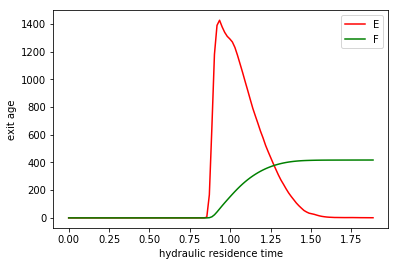
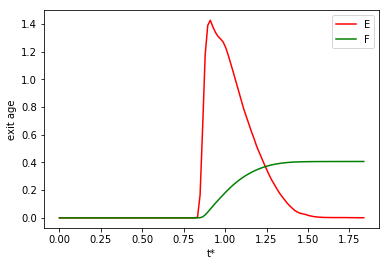
relabeled e and f graphs

diff --git a/Lab5-Reactor Characteristics/group1_lab5_report.md b/Lab5-Reactor Characteristics/group1_lab5_report.md
@@ -3,15 +3,29 @@
 ##### Due March 27
 
 ## Introduction and Objectives
+
+In the world of environmental engineering, reactors are ubiquitous. Everything from bodies of water, such as lakes, in nature, to settling tanks in treatment plants are "reactors" that allow chemical, biological, and physical processes to take place. One factor that engineers consider when working with reactors is the mixing level and the residence time. For instance, chlorine contactor tanks in water treatment are built to maximize the residence time of water in the tank to optimize the contact time between chlorine and pathogens. This experiment allows us to use tracer studies, with #40 Red Dye, to obtain estimates of the effective contact time by analyzing different reactor designs. Through this lab, we hope to modify the reactor to obtain a maximum value of t⋆ at F = 0.1, document our progress toward this goal by obtaining appropriate experimental data, and compare our experimental data with appropriate models.
+
+Below are relevant equations:
+
+$$E_{\left(t\right)}=\frac{C_t{\rlap{-} V }_r}{C_{tr}{\rlap{-} V }_{tr}}=e^{\left(-t/\theta \right)}$$
+
+This equation allowed us to solve for E, the exit age distribution, by multiplying the concentration data by the volume of the reactor divided by the pulse input of the tracer.
+
+$$F_{\left(t^{\star} \right)} =\int _{0}^{t^{\star} }E_{\left(t^{\star} \right)} dt^{\star}$$
+
+This equation gave us the F curve.
+
+
 ## Procedures
+
+In the Reactor Characteristics lab, we performed multiple tests with different reactors to measure the reactor volume, residual reactor red dye concentration, and the flow rate. We set up the reactor system to pump distilled water from a 20 L Jerry can to the influent of the reactor, which is placed on a stir plate, and drained out with a straight short tube. Then, we proceeded to add a volume of red dye #40 stock that will give a maximum concentration of approximately 30 mg/L near the influent of the reactor and collected data until the majority of the tracer has exited. Finally, we repeated these steps for various types of reactors, including alternating CMFRs as well as a PFR. For a more detail procedure, refer to the [textbook](https://monroews.github.io/EnvEngLabTextbook/Reactor_Characteristics/Reactor_Characteristics.html).
+
+
 ## Results and Discussion
 ### Data Analysis
-## Conclusion
-## Suggestions/Comments
 
-
-
-1. Use multivariable nonlinear regression to obtain the best fit between the experimental data and the two models by minimizing the sum of the squared errors. Use epa.Solver_AD_Pe and epa.Solver_CMFR_N. These functions will minimize the error by varying the values of average residence time, (mass of tracer/reactor volume), and either the number of CMFR in series or the Peclet number.
+We used multivariable nonlinear regression to obtain the best fit between the experimental data and the two models by minimizing the sum of the squared errors. Using epa.Solver_AD_Pe and epa.Solver_CMFR_N, we minimized the error by varying the values of average residence time, (mass of tracer/reactor volume), and either the number of CMFR in series or the Peclet number.
 
 2. Generate a plot showing the experimental data as points and the model results as thin lines for each of your experiments. Explain which model fits best and discuss those results based on your expectations.
 
@@ -21,23 +35,25 @@ Figure 1. Plot showing the simple CMFR experimental data and the CMFR model.
 
 ![trial 2](https://github.com/rosiekrasnoff/CEE4530/blob/master/Lab5-Reactor%20Characteristics/4_CMFR_with_holes.png?raw=true)
 
-Figure 1. Plot showing the 4 CMFR experimental data and the CMFR model.
+Figure 2. Plot showing the 4 CMFR experimental data and the CMFR model.
 
 In trial 2, the CMFR model fits better and discuss those results based on your expectations.
 
 ![trial 3](https://github.com/rosiekrasnoff/CEE4530/blob/master/Lab5-Reactor%20Characteristics/3_CMFR_alternating.png?raw=true)
 
-Figure 1. Plot showing the 3 alternating CMFR experimental data and the CMFR model.
+Figure 3. Plot showing the 3 alternating CMFR experimental data and the CMFR model.
 
 In trial 3, the CMFR model fits better and discuss those results based on your expectations.
 
 ![trial 4](https://github.com/rosiekrasnoff/CEE4530/blob/master/Lab5-Reactor%20Characteristics/4_CMFR_alternating.png?raw=true)
 
-Figure 1. Plot showing the 4 alternating CMFR experimental data and the CMFR model.
+Figure 4. Plot showing the 4 alternating CMFR experimental data and the CMFR model.
 
-In trial 4, the CMFR model fits better and discuss those results based on your expectations.
+![trial 5](https://github.com/rosiekrasnoff/CEE4530/blob/master/Lab5-Reactor%20Characteristics/PFR.png?raw=true)
 
-3. Compare the trends in the estimated values of N and Pe across your set of experiments. How did your chosen reactor modifications effect dispersion?
+In trial 5, the CMFR model fits better and discuss those results based on your expectations.
+
+3. The estimated values of N and Pe across our set of experiments:
 
 Trial 1: The model estimate of the number of reactors in series was 1.0.
 
@@ -47,27 +63,53 @@ Trial 3: The model estimate of the number of reactors in series was 3.0132831433
 
 Trial 4: The model estimate of the number of reactors in series was 3.669886514421101. The model estimate of the Peclet number was 5.479660899821685.
 
+Trial 5: The model estimate of the number of reactors in series was 70.71324985847279. The model estimate of the Peclet number was 139.17179167794515.
+
+Comparing the trends in the estimated values of N and Pe across your set of experiments, our reactor modifications decreased dispersion in our reactors. As we increased the number of reactors in series by either adding additional baffles or modeling a plug flow, the Peclet number increased as expected. As the Peclet number increases the dispersion decreases and the response becomes closer to plug flow. This matches with our model estimate of the Peclet number for PFR since it was the highest of all 5 trials.
+
 
 4. Report the values of t⋆ at F = 0.1 for each of your experiments. Do they meet your expectations?
 
+![trial 1](https://github.com/rosiekrasnoff/CEE4530/blob/master/Lab5-Reactor%20Characteristics/1-E_and_F.png?raw=true)
 
+Figure 6. Exit age (E) and Cumulative exit age (F) curves for a simple CMFR.
 
+The t* when F=0.1, which is how long it takes for 10% of the dye to leave, is 0.06352.
 
-graph E curve -> integrate to get F curve (numpy cumulative sum; numpy trapz)
-write a function to find F = 0.1
-  looks through array and find values
-  smth like this:
-  DO_min = 2 * u.mg/u.L
-  DO_max = 6 * u.mg/u.L
-  for i in range(airflows.size):
-    idx_start = (np.abs(DO_data[i]-DO_min)).argmin()
-    idx_end = (np.abs(DO_data[i]-DO_max)).argmin()
-    time_data[i] = time_data[i][idx_start:idx_end] - time_data[i][idx_start]
-    DO_data[i] = DO_data[i][idx_start:idx_end]
+![trial 2](https://github.com/rosiekrasnoff/CEE4530/blob/master/Lab5-Reactor%20Characteristics/2-E_and_F.png?raw=true)
+
+Figure 7. Exit age (E) and Cumulative exit age (F) curves for 4 CMFRs with 24 holes.
+
+The t* when F=0.1, which is how long it takes for 10% of the dye to leave, is 0.2066.
+
+![trial 3](https://github.com/rosiekrasnoff/CEE4530/blob/master/Lab5-Reactor%20Characteristics/3-E_and_F.png?raw=true)
+
+Figure 8. Exit age (E) and Cumulative exit age (F) curves for 3 alternating CMFRs.
+
+The t* when F=0.1, which is how long it takes for 10% of the dye to leave, is 0.3051.
+
+![trial 4](https://github.com/rosiekrasnoff/CEE4530/blob/master/Lab5-Reactor%20Characteristics/4-E_and_F.png?raw=true)
+
+Figure 9. Exit age (E) and Cumulative exit age (F) curves for 4 alternating CMFRs.
+
+The t* when F=0.1, which is how long it takes for 10% of the dye to leave, is 0.3426.
+
+![trial 5](https://github.com/rosiekrasnoff/CEE4530/blob/master/Lab5-Reactor%20Characteristics/5-E_and_F.png?raw=true)
+
+Figure 10. Exit age (E) and Cumulative exit age (F) curves for a PFR.
+
+The t* when F=0.1, which is how long it takes for 10% of the dye to leave, is 0.9414.
+
+The normalized time increases as we improved our reactor, which is what we would expect. The t* was 0.06352 for a simple CMFR, 0.2066 for 4 CMFRs with 24 holes, 0.3051 for 3 alternating CMFRs, 0.3426 for 4 alternating CMFRs, and 0.9414 (!!) for a PFR. This makes sense because with each improvement (added or alternating baffle), the dye spends a longer time in the reactor.
+
 
 5. Evaluate whether there is any evidence of “dead volumes” or “short circuiting” in your reactor.
 
 dye comes out faster than you though it would
+
+## Conclusion
+
+## Suggestions/Comments
 
 6. Make a recommendation for the design of a full scale chlorine contact tank. As part of your recommendation discuss the parameter you chose to vary as part of your experimentation and what the optimal value was determined to be.
 
@@ -178,7 +220,7 @@ trial2_AD_model = (trial2_AD.C_bar*epa.E_Advective_Dispersion((trial2_time_data/
 plt.plot(trial2_time_data.to(u.s), trial2_concentration_data.to(u.mg/u.L),'ro')
 plt.plot(trial2_time_data.to(u.s), trial2_CMFR_model,'b')
 plt.plot(trial2_time_data.to(u.s), trial2_AD_model,'g')
-plt.xlabel(r'$time (min)$')
+plt.xlabel(r'$time (sec)$')
 plt.ylabel(r'Concentration $\left ( \frac{mg}{L} \right )$')
 plt.legend(['Measured dye','CMFR Model', 'AD Model'])
 #plt.savefig('Examples/images/Dispersion.png', bbox_inches = 'tight')
@@ -231,7 +273,7 @@ trial3_AD_model = (trial3_AD.C_bar*epa.E_Advective_Dispersion((trial3_time_data/
 plt.plot(trial3_time_data.to(u.s), trial3_concentration_data.to(u.mg/u.L),'or')
 plt.plot(trial3_time_data.to(u.s), trial3_CMFR_model,'b')
 plt.plot(trial3_time_data.to(u.s), trial3_AD_model,'g')
-plt.xlabel(r'$time (min)$')
+plt.xlabel(r'$time (sec)$')
 plt.ylabel(r'Concentration $\left ( \frac{mg}{L} \right )$')
 plt.legend(['Measured dye','CMFR Model', 'AD Model'])
 plt.savefig('/Users/Rosie/github/CEE4530/Lab5-Reactor Characteristics/3_CMFR_alternating.png', bbox_inches = 'tight')
@@ -292,7 +334,7 @@ trial4_AD_model = (trial4_AD.C_bar*epa.E_Advective_Dispersion((trial4_time_data/
 plt.plot(trial4_time_data.to(u.s), trial4_concentration_data.to(u.mg/u.L),'or')
 plt.plot(trial4_time_data.to(u.s), trial4_CMFR_model,'b')
 plt.plot(trial4_time_data.to(u.s), trial4_AD_model,'g')
-plt.xlabel(r'$time (min)$')
+plt.xlabel(r'$time (sec)$')
 plt.ylabel(r'Concentration $\left ( \frac{mg}{L} \right )$')
 plt.legend(['Measured dye','CMFR Model', 'AD Model'])
 plt.savefig('/Users/Rosie/github/CEE4530/Lab5-Reactor Characteristics/4_CMFR_alternating.png', bbox_inches = 'tight')
@@ -314,13 +356,52 @@ trial5_concentration_data = epa.column_of_data(trial5_path,trial5_firstrow,1,-1,
 #measurement error persisted for the entire experiment.#
 
 trial5_concentration_data = trial5_concentration_data - trial5_concentration_data[0]
-trial5_V = 400*u.mL
-trial5_Q = 380 * u.mL/u.min
+trial5_V = .400*u.L
+trial5_Q = 300 * u.mL/u.min
 trial5_theta_hydraulic = (trial5_V/trial5_Q).to(u.s)
 trial5_theta_hydraulic
 trial5_C_bar_guess = np.max(trial5_concentration_data)/2
 #use solver to get the CMFR parameters
-trial5_CMFR = epa.Solver_CMFR_N(trial5_time_data, trial5_concentration_data, trial5_theta_hydraulic, trial5_C_bar_guess)
+
+#edit function, change solver to assume 50 CMFRs instead of 1
+def Solver_CMFR_N_PFR(t_data, C_data, theta_guess, C_bar_guess):
+    """Use non-linear least squares to fit the function
+    Tracer_CMFR_N(t_seconds, t_bar, C_bar, N), to reactor data.
+    Parameters
+    ----------
+    t_data : float list
+        Array of times with units
+    C_data : float list
+        Array of tracer concentration data with units
+    theta_guess : float
+        Estimate of time spent in one CMFR with units.
+    C_bar_guess : float
+        Estimate of average concentration with units
+        (Mass of tracer)/(volume of one CMFR)
+    Returns
+    -------
+    tuple
+        theta : float
+            residence time in seconds
+        C_bar : float
+            average concentration with same units as C_bar_guess
+        N : float
+            number of CMFRS in series that best fit the data
+    """
+    C_unitless = C_data.magnitude
+    C_units = str(C_bar_guess.units)
+    t_seconds = (t_data.to(u.s)).magnitude
+    # assume that a guess of 50 reactors in series is close enough to get a solution
+    p0 = [theta_guess.to(u.s).magnitude, C_bar_guess.magnitude,50]
+    popt, pcov = curve_fit(epa.Tracer_CMFR_N, t_seconds, C_unitless, p0)
+    Solver_theta = popt[0]*u.s
+    Solver_C_bar = popt[1]*u(C_units)
+    Solver_N = popt[2]
+    Reactor_results = collections.namedtuple('Reactor_results','theta C_bar N')
+    CMFR = Reactor_results(theta=Solver_theta, C_bar=Solver_C_bar, N=Solver_N)
+    return CMFR
+
+trial5_CMFR = Solver_CMFR_N_PFR(trial5_time_data, trial5_concentration_data, trial5_theta_hydraulic, trial5_C_bar_guess)
 trial5_CMFR.C_bar
 trial5_CMFR.N
 trial5_CMFR.theta.to(u.s)
@@ -348,42 +429,37 @@ print('The ratio of tracer to hydraulic residence time was',(trial5_AD.theta/tri
 trial5_AD_model = (trial5_AD.C_bar*epa.E_Advective_Dispersion((trial5_time_data/trial5_AD.theta).to_base_units(), trial5_AD.Pe)).to(u.mg/u.L)
 
 #Plot the data and the two model curves.
-plt.plot(trial5_time_data.to(u.s), trial5_concentration_data.to(u.mg/u.L),'r')
+plt.plot(trial5_time_data.to(u.s), trial5_concentration_data.to(u.mg/u.L),'or')
 plt.plot(trial5_time_data.to(u.s), trial5_CMFR_model,'b')
 plt.plot(trial5_time_data.to(u.s), trial5_AD_model,'g')
-plt.xlabel(r'$time (min)$')
+plt.xlabel(r'$time (sec)$')
 plt.ylabel(r'Concentration $\left ( \frac{mg}{L} \right )$')
 plt.legend(['Measured dye','CMFR Model', 'AD Model'])
 plt.savefig('/Users/Rosie/github/CEE4530/Lab5-Reactor Characteristics/PFR.png', bbox_inches = 'tight')
 plt.show()
 
 
-
-
-
 #Number 3
 
 #Trial 1
 t_star1 = CMFR_time_data/CMFR_theta_hydraulic # hydraulic residence time
-E = CMFR_concentration_data.to(u.mg/u.L)*CMFR_V/CMFR_CMFR.C_bar
-F = integrate.cumtrapz(E,t_star1, initial=0)
-plt.plot(t_star1,E,'r')
-plt.plot(t_star1,F,'g')
-plt.xlabel(r'hydraulic residence time (t*)')
+E1 = CMFR_concentration_data.to(u.mg/u.L)*CMFR_V/CMFR_CMFR.C_bar
+F1 = integrate.cumtrapz(E1,t_star1, initial=0)
+plt.plot(t_star1,E1,'r')
+plt.plot(t_star1,F1,'g')
+plt.xlabel(r't*')
 plt.ylabel(r'exit age')
 plt.legend(['E','F'])
 plt.savefig('C:/Users/Jiwon Lee/github/rosie/Lab5-Reactor Characteristics/1-E_and_F.png', bbox_inches = 'tight')
 plt.show()
 
-
-
 #Trial 2
 t_star2 = trial2_time_data/trial2_theta_hydraulic # hydraulic residence time
-E = trial2_concentration_data.to(u.mg/u.L)*trial2_V/trial2_AD.C_bar
-F = integrate.cumtrapz(E,t_star2, initial=0)
-plt.plot(t_star2,E,'r')
-plt.plot(t_star2,F,'g')
-plt.xlabel(r'hydraulic residence time (t*)')
+E2 = trial2_concentration_data.to(u.mg/u.L)*trial2_V/trial2_AD.C_bar
+F2 = integrate.cumtrapz(E2,t_star2, initial=0)
+plt.plot(t_star2,E2,'r')
+plt.plot(t_star2,F2,'g')
+plt.xlabel(r't*')
 plt.ylabel(r'exit age')
 plt.legend(['E','F'])
 plt.savefig('C:/Users/Jiwon Lee/github/rosie/Lab5-Reactor Characteristics/2-E_and_F.png', bbox_inches = 'tight')
@@ -391,23 +467,24 @@ plt.show()
 
 #Trial 3
 t_star3 = trial3_time_data/trial3_theta_hydraulic # hydraulic residence time
-E = trial3_concentration_data.to(u.mg/u.L)*trial3_V/trial3_AD.C_bar
-F = integrate.cumtrapz(E,t_star3, initial=0)
-plt.plot(t_star3,E,'r')
-plt.plot(t_star3,F,'g')
-plt.xlabel(r'hydraulic residence time')
+E3 = trial3_concentration_data.to(u.mg/u.L)*trial3_V/trial3_AD.C_bar
+F3 = integrate.cumtrapz(E3,t_star3, initial=0)
+plt.plot(t_star3,E3,'r')
+plt.plot(t_star3,F3,'g')
+plt.xlabel(r't*')
 plt.ylabel(r'exit age')
 plt.legend(['E','F'])
 plt.savefig('C:/Users/Jiwon Lee/github/rosie/Lab5-Reactor Characteristics/3-E_and_F.png', bbox_inches = 'tight')
 plt.show()
 
+
 #Trial 4
 t_star4 = trial4_time_data/trial4_theta_hydraulic # hydraulic residence time
-E = trial4_concentration_data.to(u.mg/u.L)*trial4_V/trial4_AD.C_bar
-F = integrate.cumtrapz(E,t_star4, initial=0)
-plt.plot(t_star4,E,'r')
-plt.plot(t_star4,F,'g')
-plt.xlabel(r'hydraulic residence time')
+E4 = trial4_concentration_data.to(u.mg/u.L)*trial4_V/trial4_AD.C_bar
+F4 = integrate.cumtrapz(E4,t_star4, initial=0)
+plt.plot(t_star4,E4,'r')
+plt.plot(t_star4,F4,'g')
+plt.xlabel(r't*')
 plt.ylabel(r'exit age')
 plt.legend(['E','F'])
 plt.savefig('C:/Users/Jiwon Lee/github/rosie/Lab5-Reactor Characteristics/4-E_and_F.png', bbox_inches = 'tight')
@@ -415,15 +492,64 @@ plt.show()
 
 #Trial 5
 t_star5 = trial5_time_data/trial5_theta_hydraulic # hydraulic residence time
-E = trial5_concentration_data.to(u.mg/u.L)*trial5_V/trial5_AD.C_bar
-F = integrate.cumtrapz(E,t_star5, initial=0)
-plt.plot(t_star5,E,'r')
-plt.plot(t_star5,F,'g')
-plt.xlabel(r'hydraulic residence time')
+t_star5 = trial5_time_data/trial5_AD.theta
+E5 = trial5_concentration_data.to(u.mg/u.L)*trial5_V/trial5_AD.C_bar
+F5 = integrate.cumtrapz(E5,t_star5, initial=0)
+plt.plot(t_star5,E5,'r')
+plt.plot(t_star5,F5,'g')
+plt.xlabel(r't*')
 plt.ylabel(r'exit age')
 plt.legend(['E','F'])
 plt.savefig('C:/Users/Jiwon Lee/github/rosie/Lab5-Reactor Characteristics/5-E_and_F.png', bbox_inches = 'tight')
 plt.show()
+
+#Number 4
+#write a function to find the time when F = 0.1
+#looks through array and find values
+
+#Trial 1
+desired_F = 0.1
+for i in range(CMFR_concentration_data.size):
+    if F1[i-1] < desired_F and F1[i] > desired_F:
+      desired_t_star1 = t_star1[i]
+
+print('The t* when F=0.1, which is how long it takes for 10% of the dye to leave, is', desired_t_star1)
+
+#Trial 2
+desired_F = 0.1
+for i in range(trial2_concentration_data.size):
+    if F2[i-1] < desired_F and F2[i] > desired_F:
+      desired_t_star2 = t_star2[i]
+
+print('The t* when F=0.1, which is how long it takes for 10% of the dye to leave, is', desired_t_star2)
+
+#Trial 3
+desired_F = 0.1
+for i in range(trial3_concentration_data.size):
+    if F3[i-1] < desired_F and F3[i] > desired_F:
+      desired_t_star3 = t_star3[i]
+
+print('The t* when F=0.1, which is how long it takes for 10% of the dye to leave, is', desired_t_star3)
+
+#Trial 4
+desired_F = 0.1
+for i in range(trial4_concentration_data.size):
+    if F4[i-1] < desired_F and F4[i] > desired_F:
+      desired_t_star4 = t_star4[i]
+
+print('The t* when F=0.1, which is how long it takes for 10% of the dye to leave, is', desired_t_star4)
+
+#Trial 5
+desired_F = 0.1
+for i in range(trial5_concentration_data.size):
+    if F5[i-1] < desired_F and F5[i] > desired_F:
+      desired_t_star5 = t_star5[i]
+
+print('The t* when F=0.1, which is how long it takes for 10% of the dye to leave, is', desired_t_star5)
+
+
+
+
 
 
 
